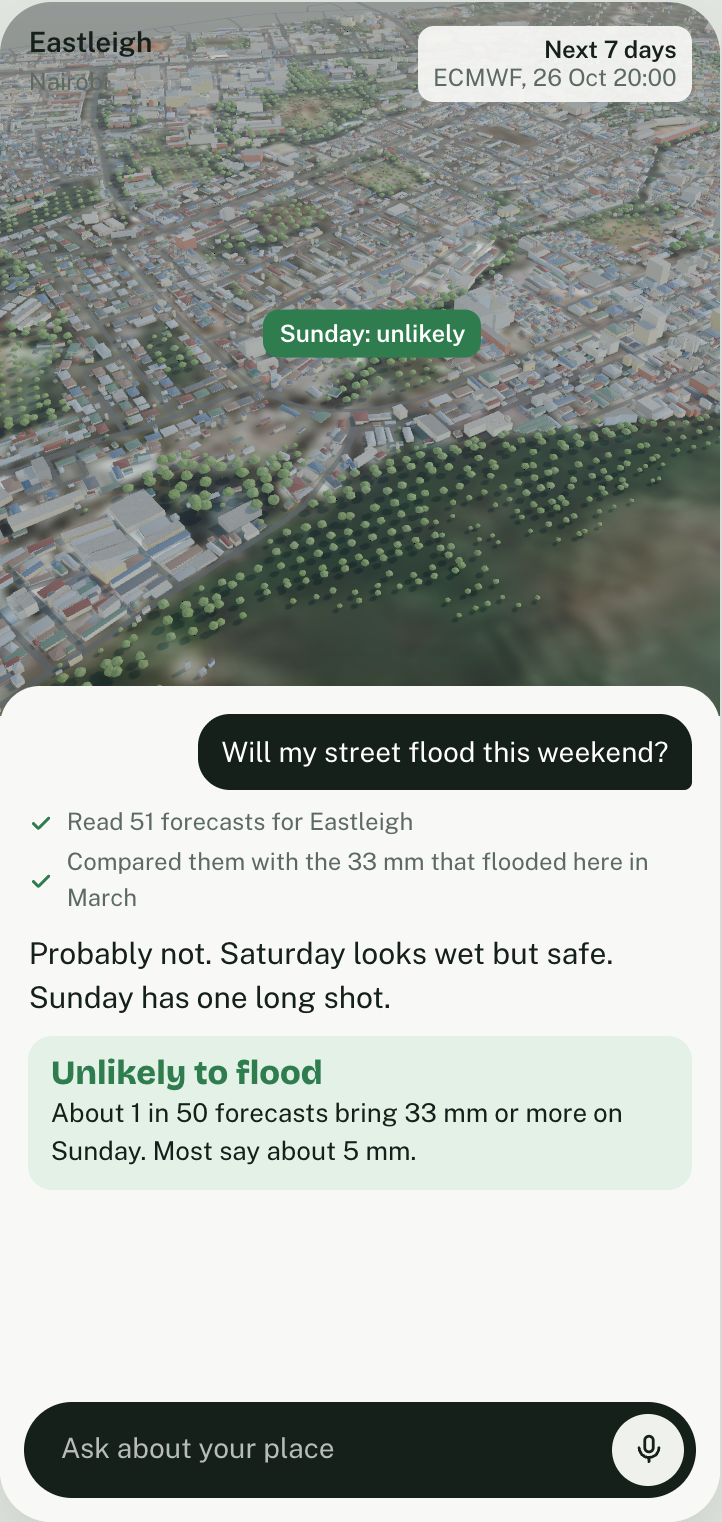
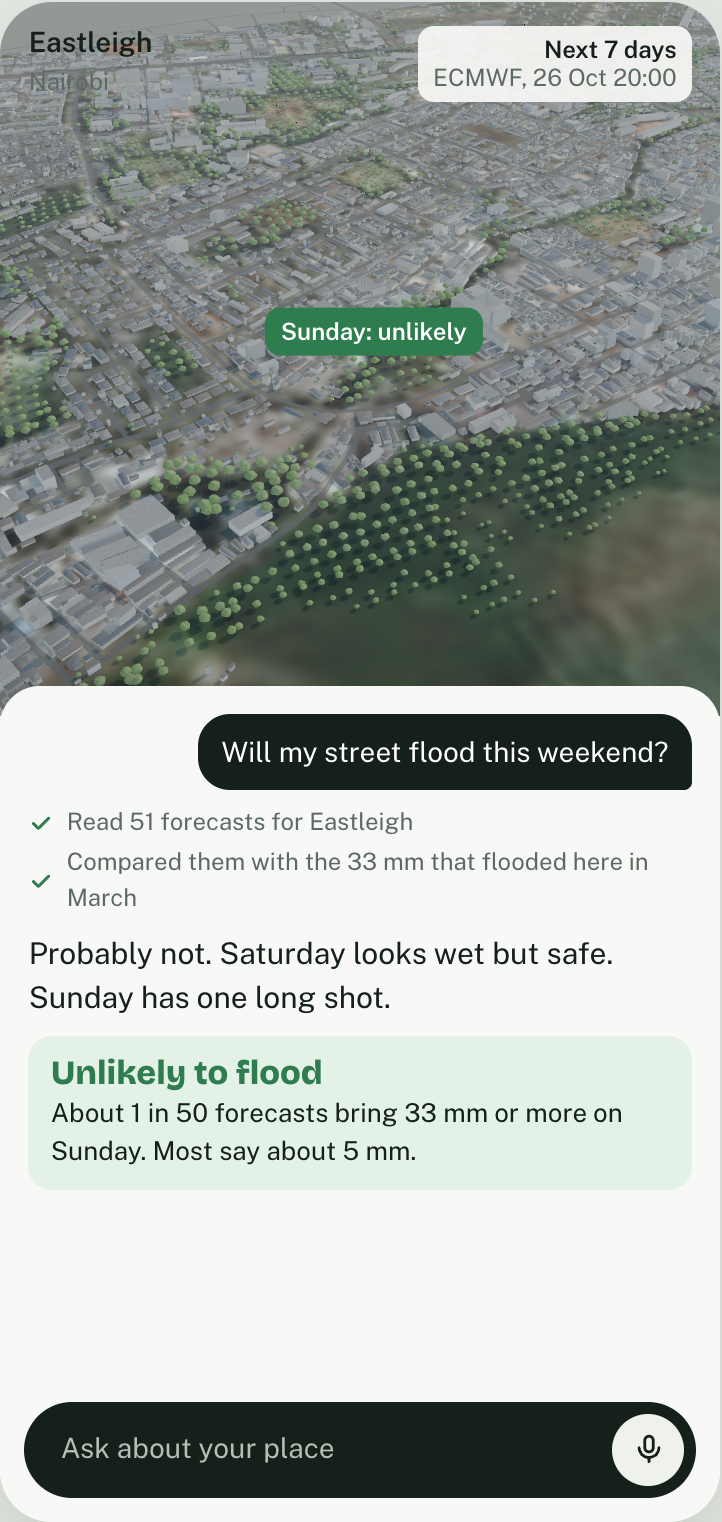
Use general realistic building tones instead of a local palette

Changed region(s): [[0.0, 0.0, 1.0, 0.4632], [0.7922, 0.0, 0.8837, 0.0309], [0.7922, 0.4014, 0.8532, 0.4323]]

diff --git a/design/place3d.js b/design/place3d.js
@@ -25,11 +25,12 @@ function sunDir(dayOfYear, hour) {
   return new THREE.Vector3(Math.sin(az) * Math.cos(el), Math.sin(el), -Math.cos(az) * Math.cos(el));
 }
 
-// Eastleigh colours: plaster and paint on walls, mabati (iron sheet) roofs bare, rusted or
-// painted, concrete on flat roofs. No orange: amber marks water at the door.
-const WALLS = ['#a9a59c', '#b9ad98', '#c4b493', '#9da6aa', '#b2a088', '#8f8a82', '#c2b9a6', '#a3664f', '#bfae7c'];
-const ROOFS_PITCHED = ['#9a9d9f', '#8b8f91', '#7d6455', '#6f3c33', '#4f6b5b', '#4d6178', '#56585c'];
-const ROOFS_FLAT = ['#8e8b84', '#9c978d', '#7f7c76', '#a8a297'];
+// Realistic building tones anywhere: low-saturation concrete, render and stone at real-world
+// brightness (albedo about 0.35 to 0.55), metal and tile roofs in greys and muted browns.
+// No orange: amber marks water at the door.
+const WALLS = ['#9b9893', '#a8a39a', '#b3aea4', '#8c8a86', '#a59d90', '#bab4a9', '#94918b', '#aaa49a', '#9fa2a3'];
+const ROOFS_PITCHED = ['#6e6a66', '#5a5856', '#7a7470', '#6b5d55', '#4e5257', '#625a52'];
+const ROOFS_FLAT = ['#8a8781', '#96928a', '#7e7b75', '#a09b92'];
 
 export async function placeScene({ stage, canvas, base, view = 'street', weather = 'clear', hour = 16.3, day = 300, progress }) {
   const say = progress ?? (() => {});
